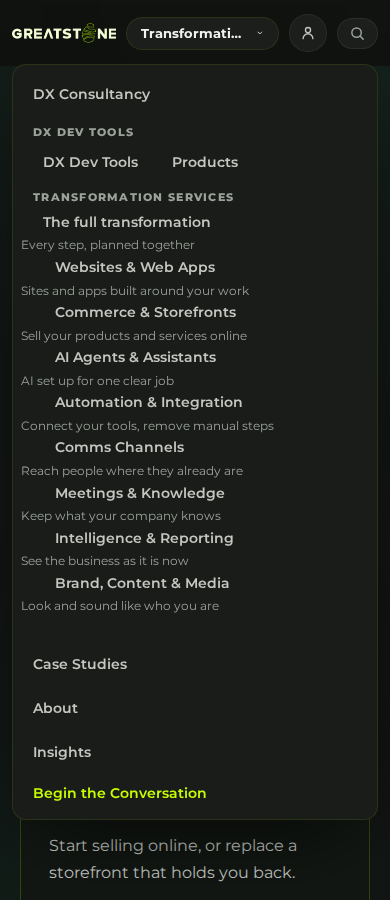
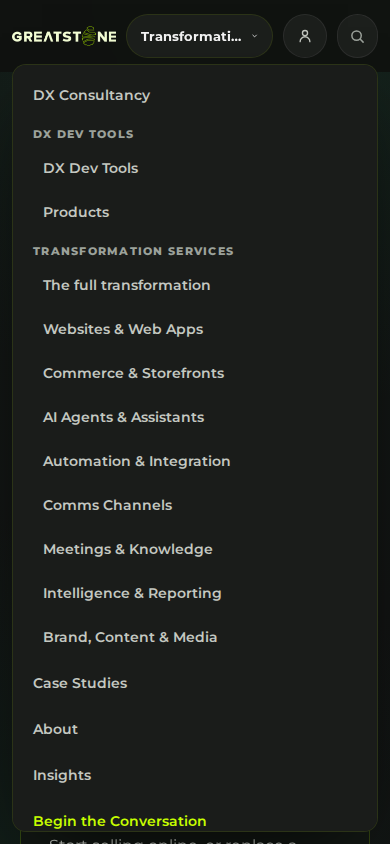
GRE-2572 Fix mobile navigation group layout

diff --git a/src/studio.css b/src/studio.css
@@ -51,8 +51,13 @@
 .gs-navgroup-pop::before{content:'';position:absolute;left:0;right:0;top:-8px;height:8px}
 /* the mobile menu shows the group's pages under a small label, lightly indented */
 .gs-navmenu-grouplabel{display:block;padding:8px 12px 2px;font-size:.66rem;font-weight:800;letter-spacing:.12em;text-transform:uppercase;color:var(--gs-faint)}
+.gs-navmenu-section{display:flex;flex-direction:column}
+.gs-navmenu-section .gs-navmenu-item{width:100%;box-sizing:border-box}
 .gs-navmenu-item.is-sub{padding-left:22px}
-@media(max-width:760px){.gs-navmenu-pop{position:fixed;top:64px;left:12px;right:12px;width:auto;max-width:none;max-height:calc(100dvh - 76px)}}
+@media(max-width:760px){
+  .gs-navmenu-pop{position:fixed;top:64px;left:12px;right:12px;width:auto;max-width:none;max-height:calc(100dvh - 76px)}
+  .gs-navmenu-section .gs-navmenu-item small{display:none}
+}
 
 .gs-tools{display:flex;align-items:center;gap:10px}
 /* persistent navbar CTA + account icon (Ben's 18 Jun review) */
